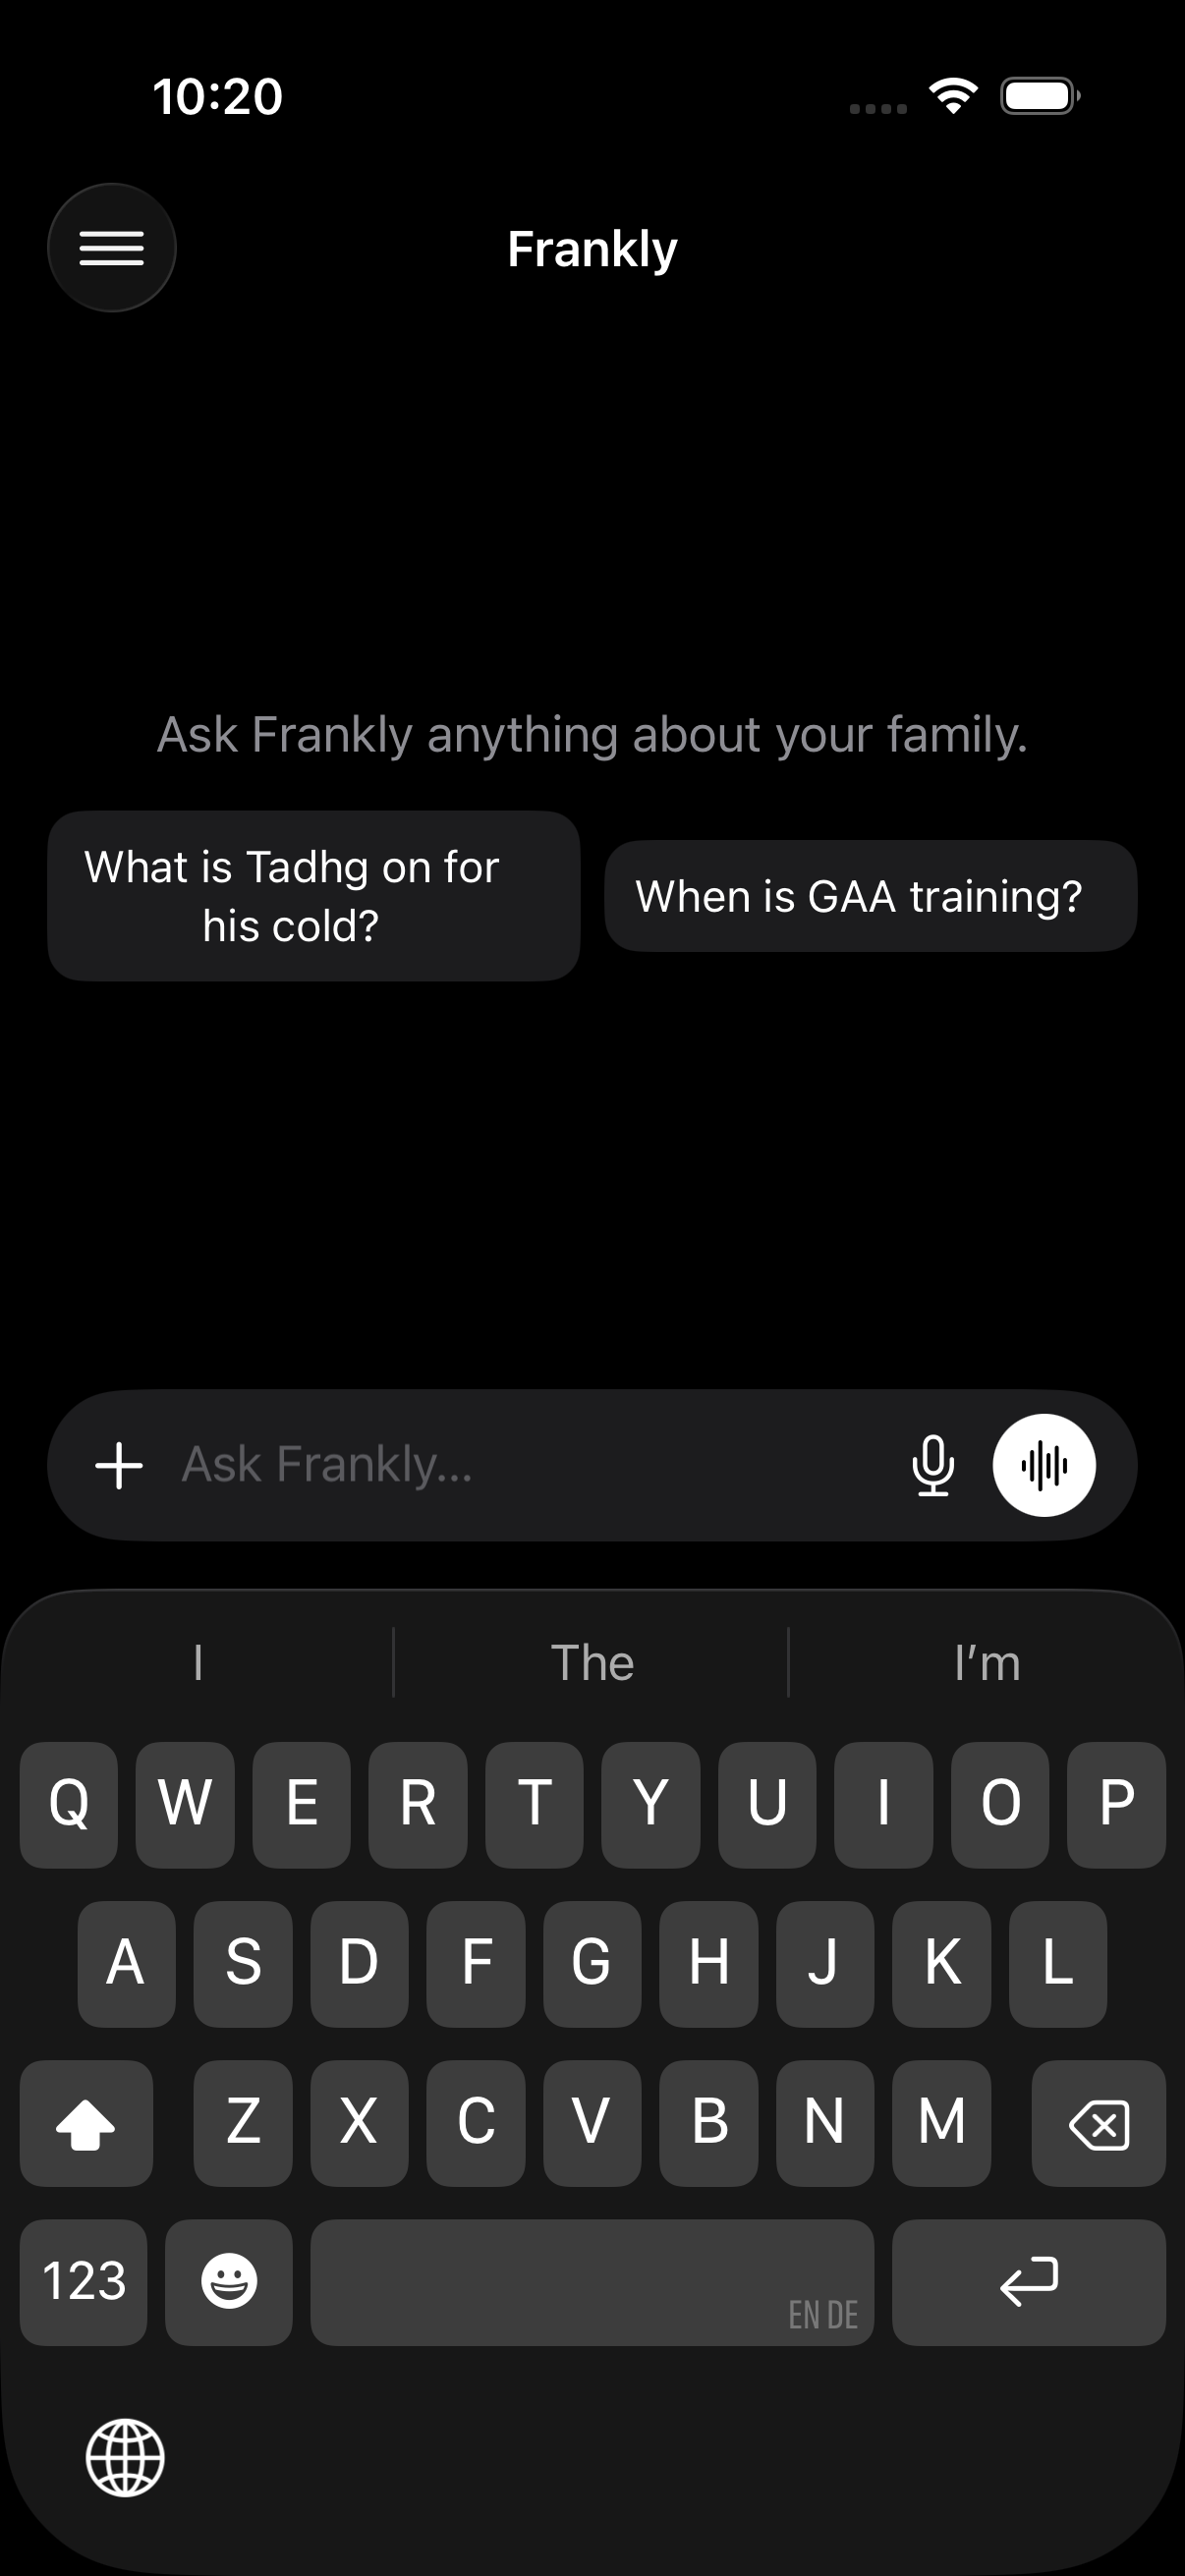
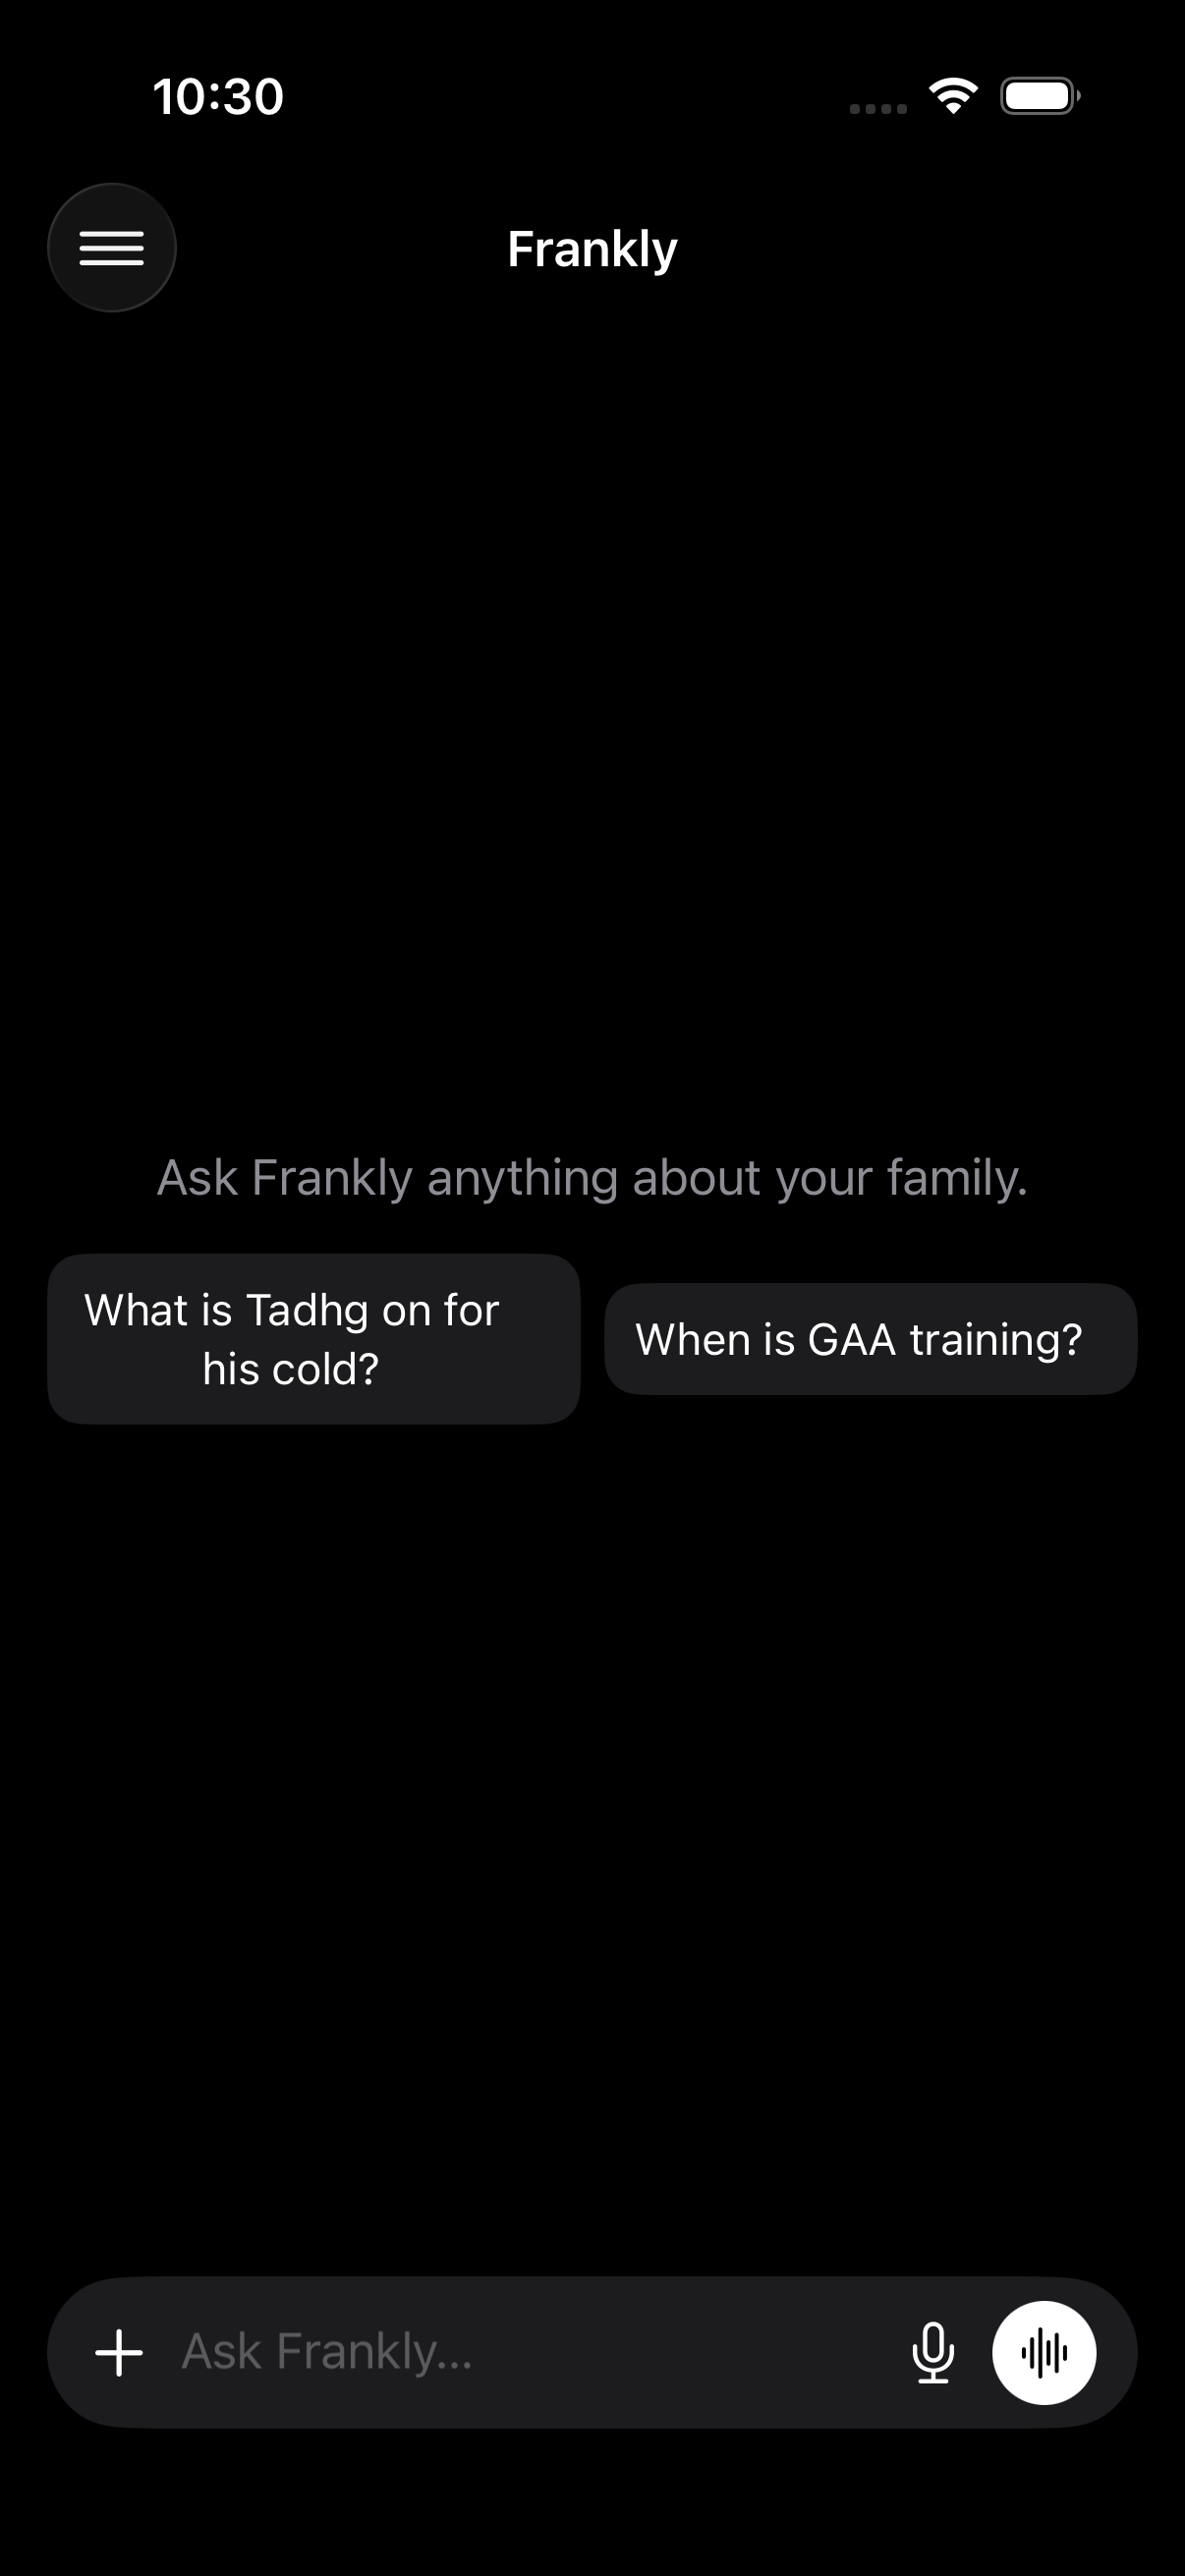
Use [email redacted] everywhere; add privacy policy page

diff --git a/privacy.html b/privacy.html
@@ -1,0 +1,61 @@
+<!DOCTYPE html>
+<html lang="en">
+<head>
+  <meta charset="UTF-8" />
+  <meta name="viewport" content="width=device-width, initial-scale=1.0" />
+  <title>Frankly — Privacy Policy</title>
+  <meta name="description" content="How Frankly handles your data: it doesn't. Your records stay in your own iCloud and run on your own AI key." />
+  <link rel="stylesheet" href="styles.css" />
+</head>
+<body>
+  <header class="nav">
+    <div class="brand"><a href="/"><span class="logo">F</span> Frankly</a></div>
+    <nav>
+      <a href="/">Home</a>
+      <a class="btn btn-small" href="/#get">Get the beta</a>
+    </nav>
+  </header>
+
+  <section class="legal">
+    <h1>Privacy Policy</h1>
+    <p class="updated">Last updated: 22 June 2026</p>
+
+    <p>Frankly is built so that your family's information stays <strong>yours</strong>. We have designed it to collect as little as possible — in fact, we operate no servers that receive your family data at all. This policy explains, in plain terms, what happens to your information.</p>
+
+    <h2>The short version</h2>
+    <ul>
+      <li>Your family records and documents are stored in <strong>your own iCloud</strong>, on your device and Apple's iCloud — not on our servers.</li>
+      <li>Frankly runs on <strong>your own AI key</strong> (OpenAI, Google Gemini or Anthropic Claude). We never see your key or your conversations.</li>
+      <li>We do not sell, rent, or share your data. We have no advertising and no third-party trackers.</li>
+    </ul>
+
+    <h2>What we store, and where</h2>
+    <p>The family information you add — people, notes, photos and documents — is saved to your own iCloud (Apple's iCloud Drive and CloudKit) and on your device. BerlinBravo does not host, receive or have access to this content. If you invite another family member to share, that sharing happens directly between your iCloud accounts through Apple, not through us.</p>
+
+    <h2>Your AI key and conversations</h2>
+    <p>Your AI provider key is stored in your device's secure Keychain. When you ask Frankly something, your question (and the relevant family context) is sent <strong>directly from your device to the AI provider you chose</strong> to generate an answer. That request is subject to your chosen provider's own privacy terms (<a href="https://openai.com/policies/privacy-policy/">OpenAI</a>, <a href="https://policies.google.com/privacy">Google</a>, <a href="https://www.anthropic.com/legal/privacy">Anthropic</a>). We are not a party to it and do not receive or retain it.</p>
+
+    <h2>Microphone, speech, calendar and reminders</h2>
+    <p>If you use voice, your microphone is used to capture what you say. Dictation may be processed on-device or sent to your chosen AI provider to turn speech into text. If you turn on the daily overview, Frankly reads your device Calendar and Reminders <strong>on your device, with your permission</strong>, only to summarise what's on today. None of this is sent to or stored by BerlinBravo.</p>
+
+    <h2>Children's information</h2>
+    <p>Frankly is intended for use by parents and carers. Any information about children is added and controlled by the adult using the app and stays in that family's own iCloud. We do not knowingly collect information from children directly.</p>
+
+    <h2>Analytics</h2>
+    <p>Frankly does not include third-party analytics or advertising SDKs. Apple may provide us aggregate, anonymised crash and usage statistics if you have opted in to share these with developers in your device settings; these never identify you.</p>
+
+    <h2>Your control</h2>
+    <p>Because your data lives in your own iCloud, you can view, edit or delete it at any time within the app or your iCloud storage, and you can remove your AI key whenever you wish. Deleting the app and its iCloud data removes your information.</p>
+
+    <h2>Changes</h2>
+    <p>If we update this policy we will post the new version here and update the date above.</p>
+
+    <h2>Contact</h2>
+    <p>Questions? Email <a href="mailto:[email redacted]">[email redacted]</a>.</p>
+  </section>
+
+  <footer>
+    <p>Frankly — by BerlinBravo. <a href="mailto:[email redacted]">[email redacted]</a> · <a href="/privacy.html">Privacy</a></p>
+  </footer>
+</body>
+</html>

diff --git a/styles.css b/styles.css
@@ -98,5 +98,14 @@ h3 { font-size: 19px; margin-bottom: 8px; }
 .beta-steps { display: inline-block; text-align: left; color: var(--muted); max-width: 460px; margin: 0 auto 26px; padding-left: 20px; line-height: 1.9; }
 .beta-steps a { color: var(--text); text-decoration: underline; }
 
+.legal { max-width: 760px; }
+.legal h1 { margin-bottom: 6px; }
+.legal .updated { color: var(--muted); margin-bottom: 28px; }
+.legal h2 { font-size: 22px; margin: 30px 0 12px; }
+.legal p, .legal li { color: var(--muted); }
+.legal ul { padding-left: 22px; line-height: 1.8; }
+.legal a { color: var(--text); text-decoration: underline; }
+.brand a { color: inherit; }
+
 footer { border-top: 1px solid #232327; padding: 28px; text-align: center; color: var(--muted); font-size: 14px; }
 footer a { color: var(--text); }

diff --git a/index.html b/index.html
@@ -123,8 +123,8 @@
   </section>
 
   <footer>
-    <p>Testing Frankly? <a href="mailto:[email redacted]?subject=Frankly%20feedback">Tell us what you think</a> — we'd love your feedback.</p>
-    <p>Frankly — by BerlinBravo. <a href="mailto:[email redacted]">[email redacted]</a></p>
+    <p>Testing Frankly? <a href="mailto:[email redacted]?subject=Frankly%20feedback">Tell us what you think</a> — we'd love your feedback.</p>
+    <p>Frankly — by BerlinBravo. <a href="mailto:[email redacted]">[email redacted]</a> · <a href="privacy.html">Privacy</a></p>
   </footer>
 </body>
 </html>